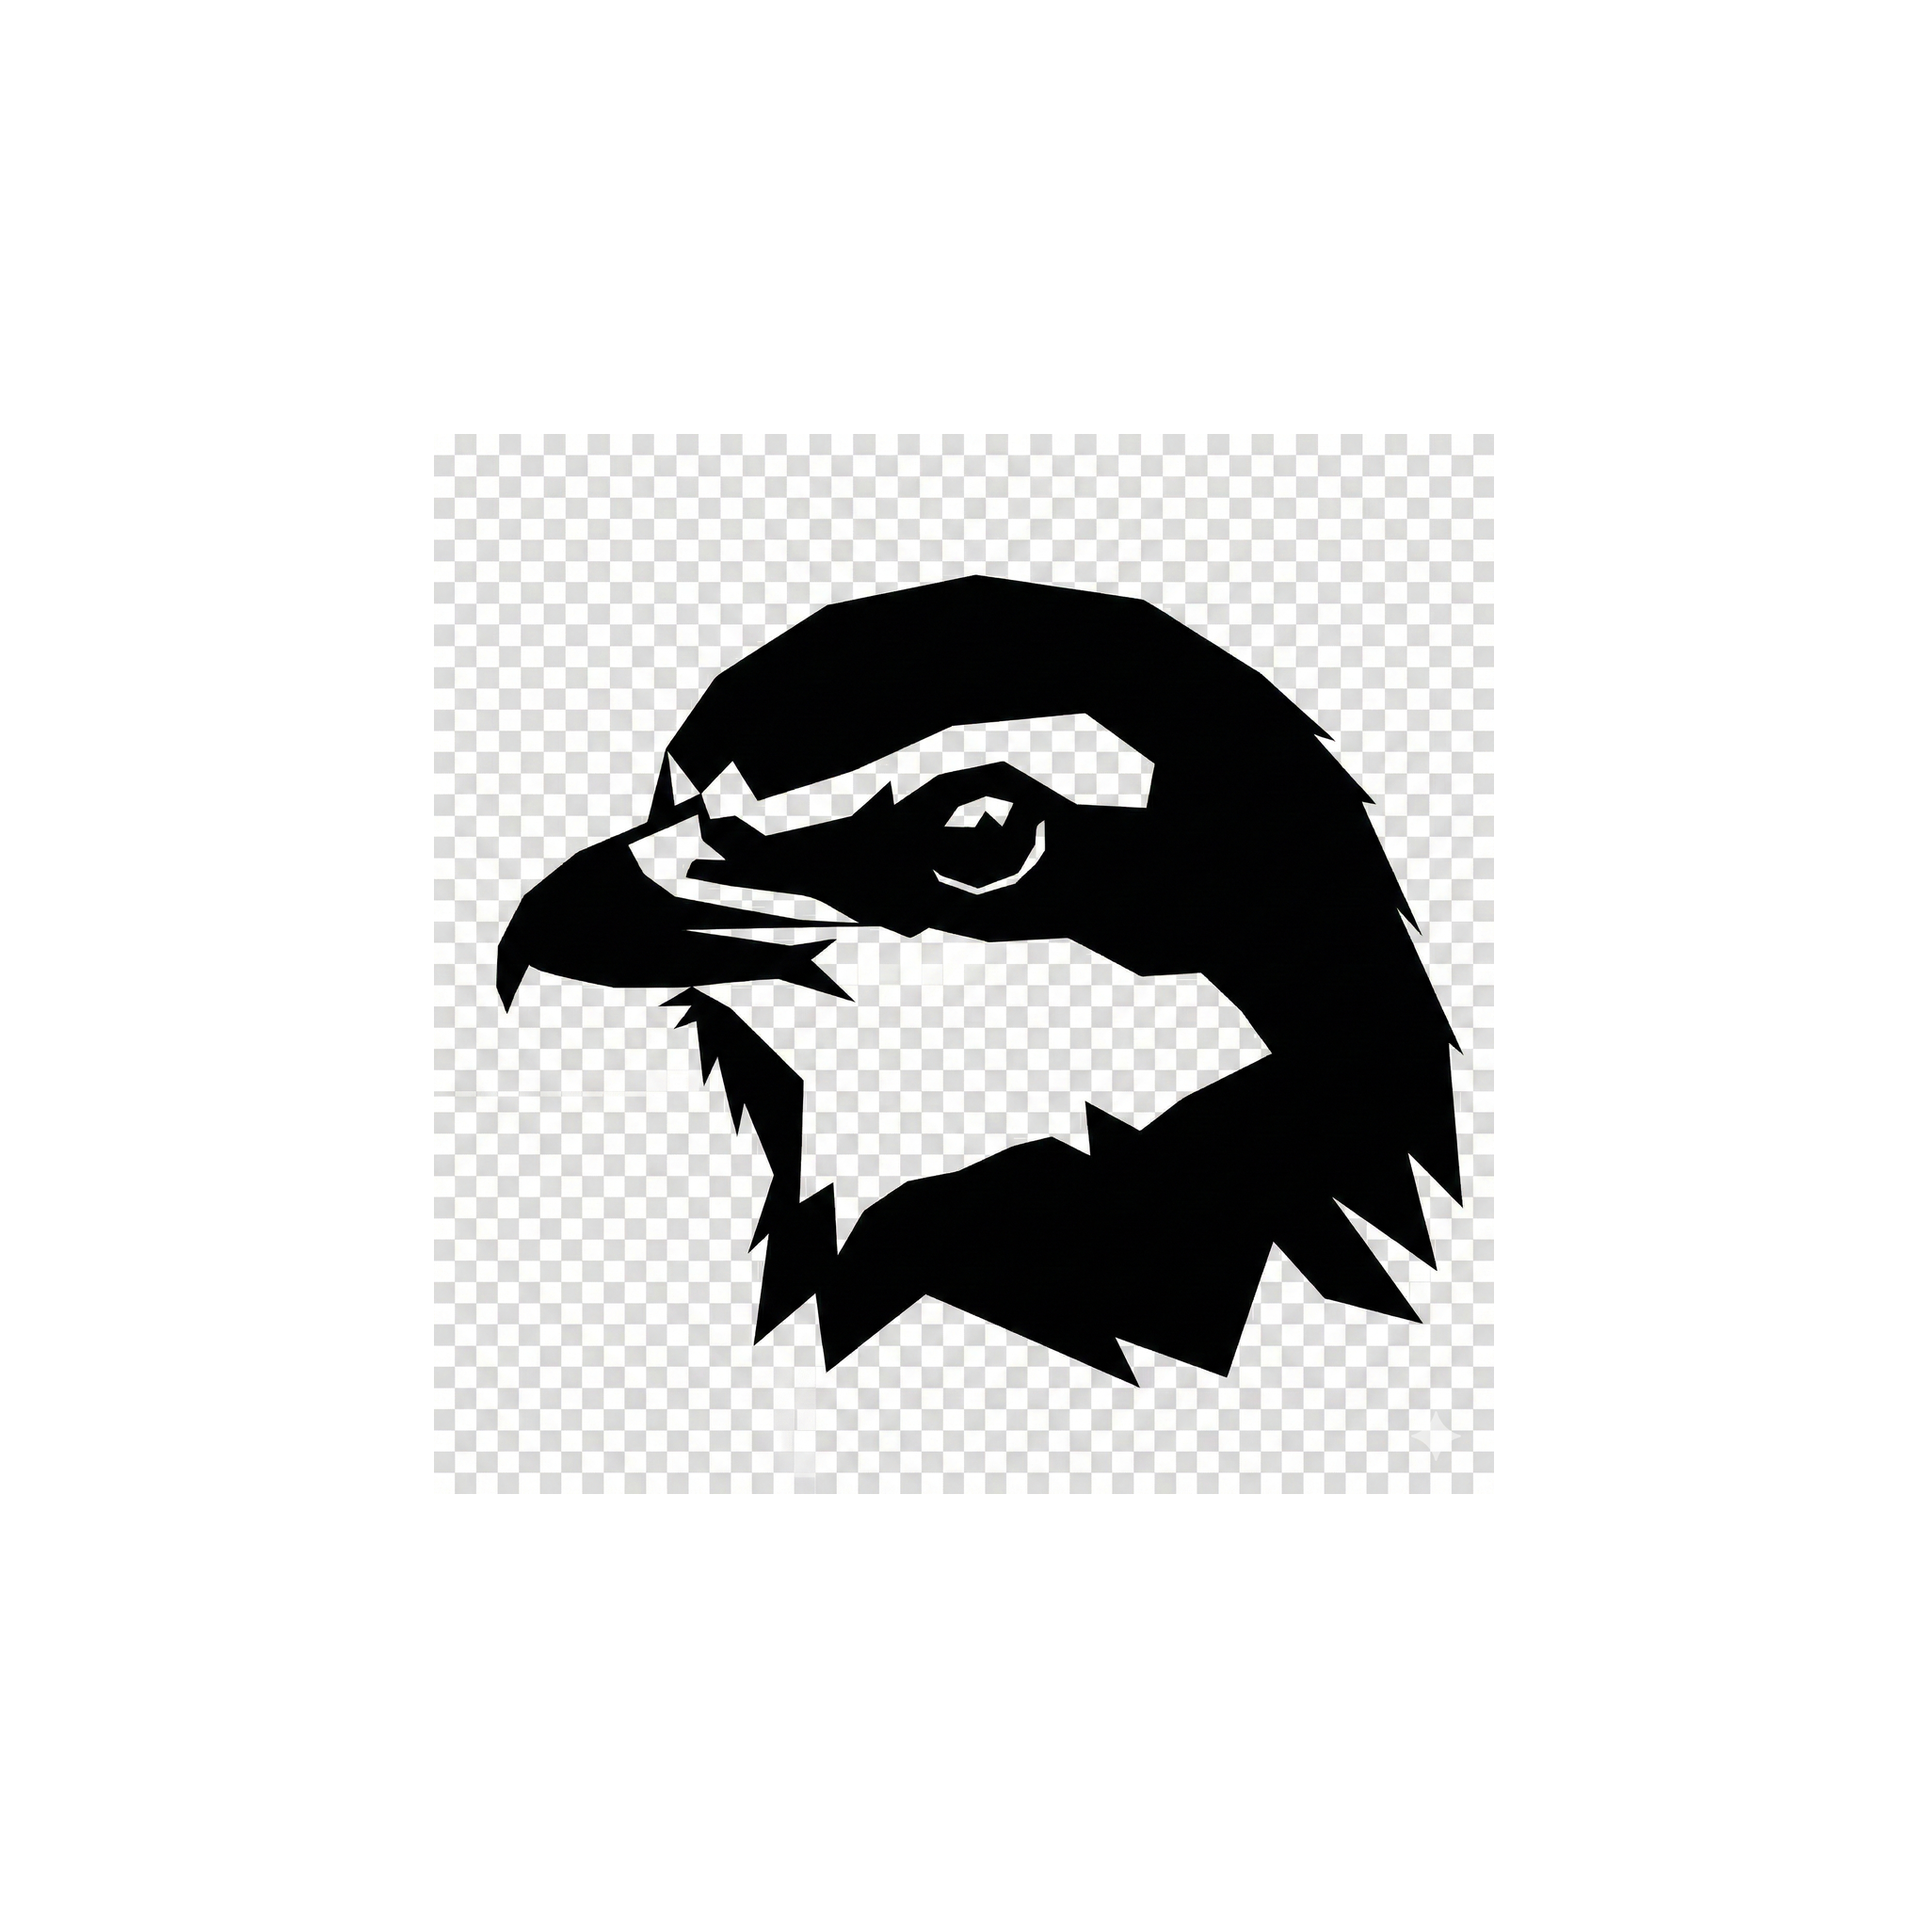
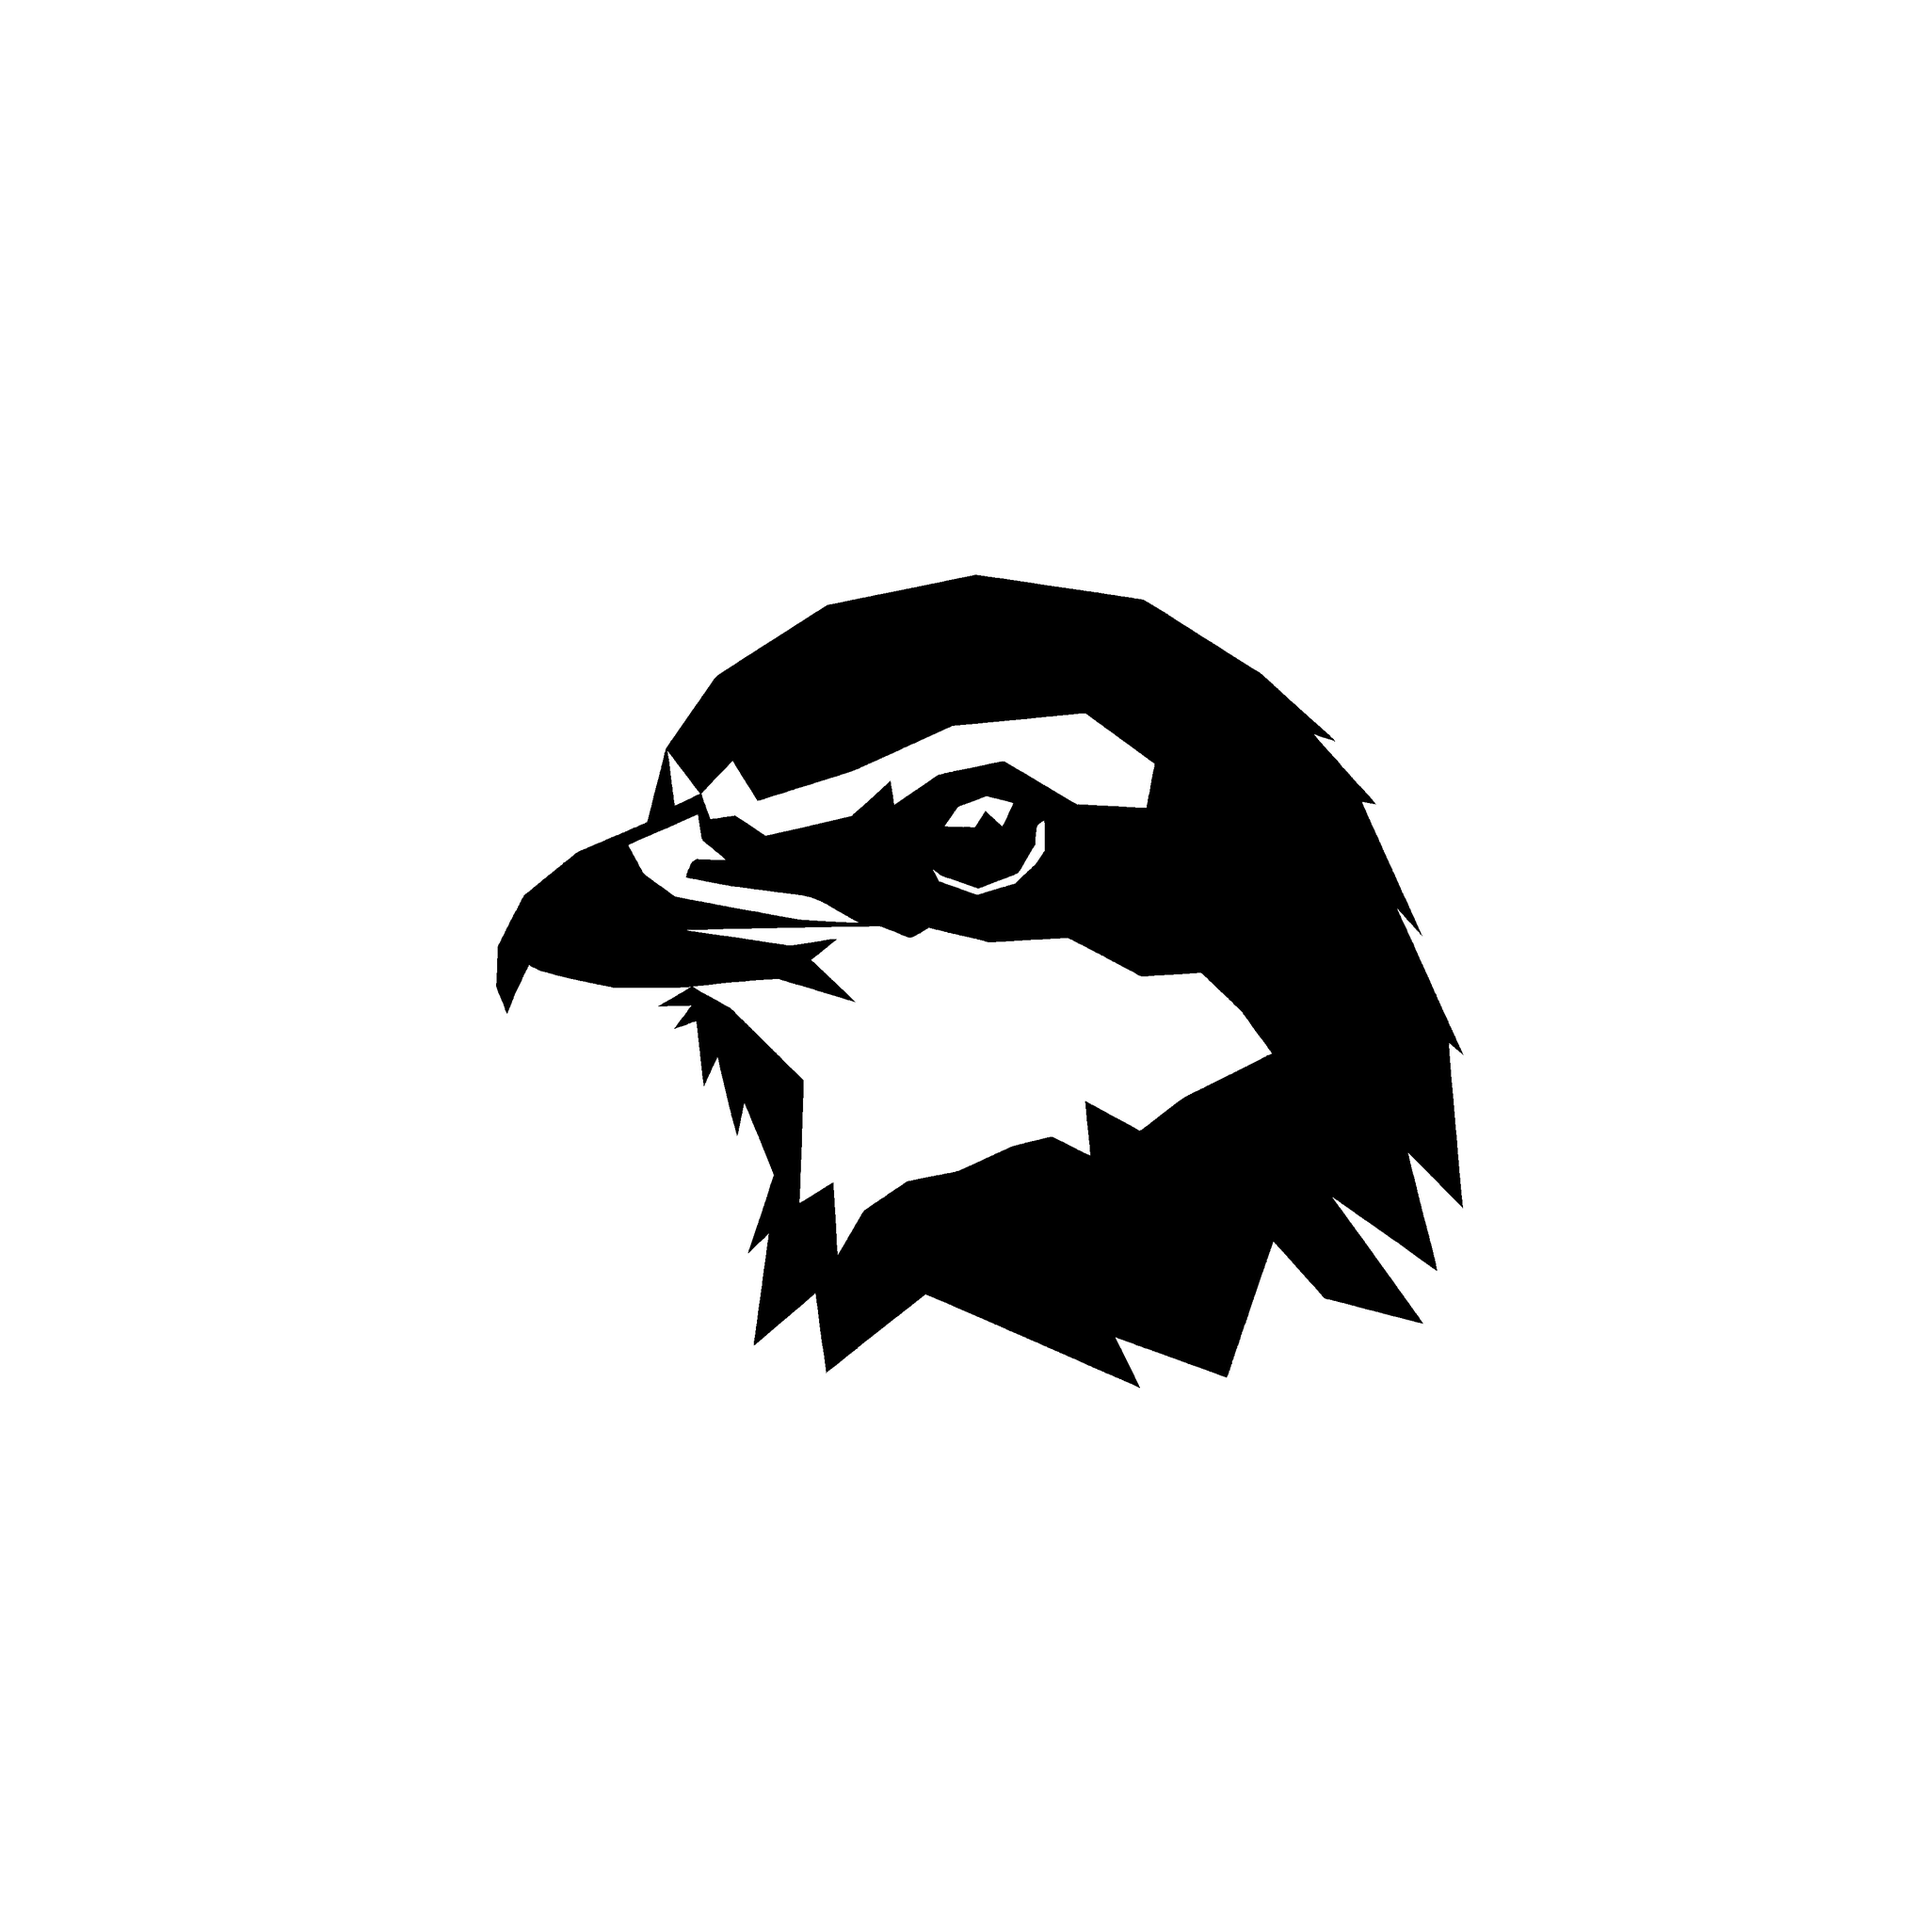
fix: extract android monochrome silhouette

Changed region(s): [[0.2188, 0.2188, 0.7812, 0.7812]]

diff --git a/scripts/resize-logos.py b/scripts/resize-logos.py
@@ -16,7 +16,10 @@ def main():
     foreground = Image.open(ROOT / "logo.png").convert("RGBA")
     rounded = Image.open(ROOT / "assets/brand/icon-rounded.png").convert("RGBA")
     if "--android-source" in sys.argv:
-        for source, name in [(foreground, "android-foreground.png"), (Image.open(ROOT / "logo-menu.png").convert("RGBA"), "android-monochrome.png")]:
+        template = Image.open(ROOT / "logo-menu.png").convert("L")
+        monochrome = Image.new("RGBA", template.size)
+        monochrome.putalpha(template.point(lambda value: 255 if value < 128 else 0))
+        for source, name in [(foreground, "android-foreground.png"), (monochrome, "android-monochrome.png")]:
             inset = Image.new("RGBA", (2048, 2048))
             mark = source.copy()
             mark.thumbnail((1126, 1126), Image.Resampling.LANCZOS)

diff --git a/assets/brand/README.md b/assets/brand/README.md
@@ -28,3 +28,5 @@ The exact source, sampled palette, independent background layers, every export s
 - [Shared logo usage SOP](https://github.com/nocoo/hexly.ai/blob/main/docs/07-logo-usage-sop.md)
 
 Before/after deliberately shares the same original foreground. Verify small marks at their actual displayed sizes on both themes, decode every ICO resolution, and keep any platform-specific mask separate from the transparent source.
+
+Android's custom layers are inset before the Tauri generator reads them. Its monochrome layer extracts the dark silhouette from the archived `logo-menu.png` reference, whose light checkerboard is baked into the image; those light pixels are excluded from the platform alpha mask. The existing macOS tray PNG remains unchanged.
